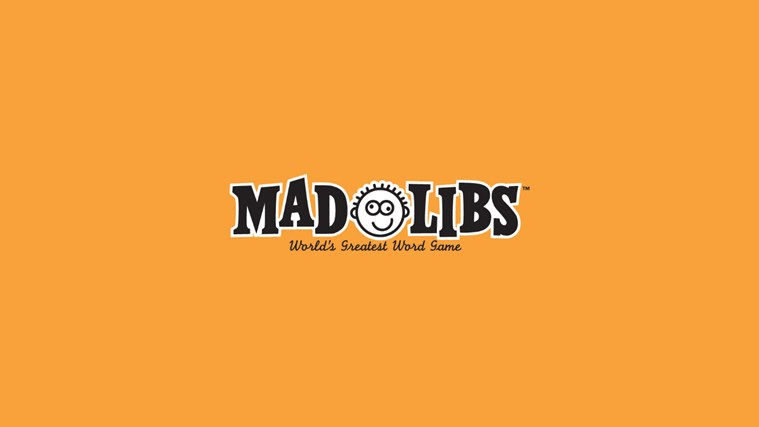
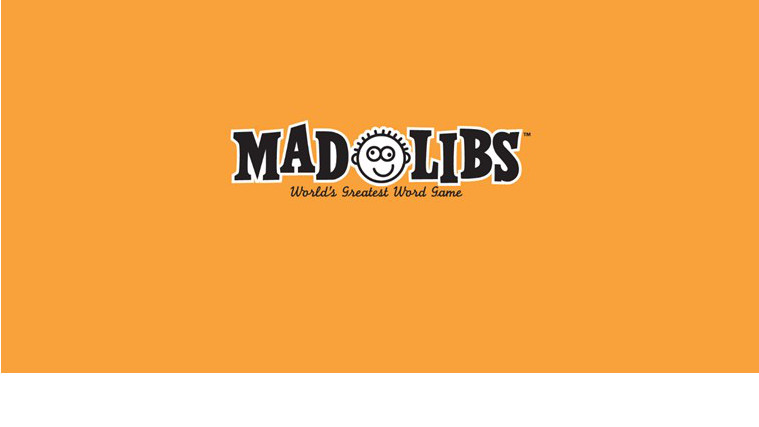
fixed img size

Changed region(s): [[0.0, 0.8525, 1.0, 1.0], [0.303, 0.274, 0.697, 0.6089]]

diff --git a/index.html b/index.html
@@ -21,29 +21,30 @@
 
 <body class="container" ng-app="App">
     <div class="parallax-container">
-    <div class="parallax"><img src="img/madlib.jpg"></div>
-  </div>
-
-  <div class="section white">
-    <div class="row">
-<div class="col s12"><h1 class="center-align">Welcome to <br>Movie M<span><img class="angular" src="img/angular.svg"></span>dlibs</h1>
-  <p class="flow-text center-align">Click the button to choose your story then fill in the forms provided.</p>
-  <p class="flow-text center-align">Once you are happy with your inputs, click the show story button to reveal your story</p>
-        <div class="right-align">
-            <!-- Dropdown Trigger -->
-            <a class="dropdown-button btn" href="#" data-activates="dropdown1">Pick a Story</a>
-
-            <!-- Dropdown Structure -->
-            <ul id="dropdown1" class="dropdown-content">
-                <li><a ui-sref="bay">Micheal Bay</a></li>
-                <li><a ui-sref="night">M. Night Shyamalan</a></li>
-            </ul>
-            <!-- <button class="btn btn-primary waves-effect waves-purple " ui-sref="form">Show The Form</button> -->
-
-        </div>
-      </div>
+        <div class="parallax"><img src="img/madlib.jpg"></div>
     </div>
-  </div>
+
+    <div class="section white">
+        <div class="row">
+            <div class="col s12">
+                <h1 class="center-align">Welcome to <br>Movie M<span><img class="angular" src="img/angular.svg"></span>dlibs</h1>
+                <p class="flow-text center-align">Click the button to choose your story then fill in the forms provided.</p>
+                <p class="flow-text center-align">Once you are happy with your inputs, click the show story button to reveal your story</p>
+                <div class="right-align">
+                    <!-- Dropdown Trigger -->
+                    <a class="dropdown-button btn" href="#" data-activates="dropdown1">Pick a Story</a>
+
+                    <!-- Dropdown Structure -->
+                    <ul id="dropdown1" class="dropdown-content">
+                        <li><a ui-sref="bay">Micheal Bay</a></li>
+                        <li><a ui-sref="night">M. Night Shyamalan</a></li>
+                    </ul>
+                    <!-- <button class="btn btn-primary waves-effect waves-purple " ui-sref="form">Show The Form</button> -->
+
+                </div>
+            </div>
+        </div>
+    </div>
 
     <div ui-view class="">
 
